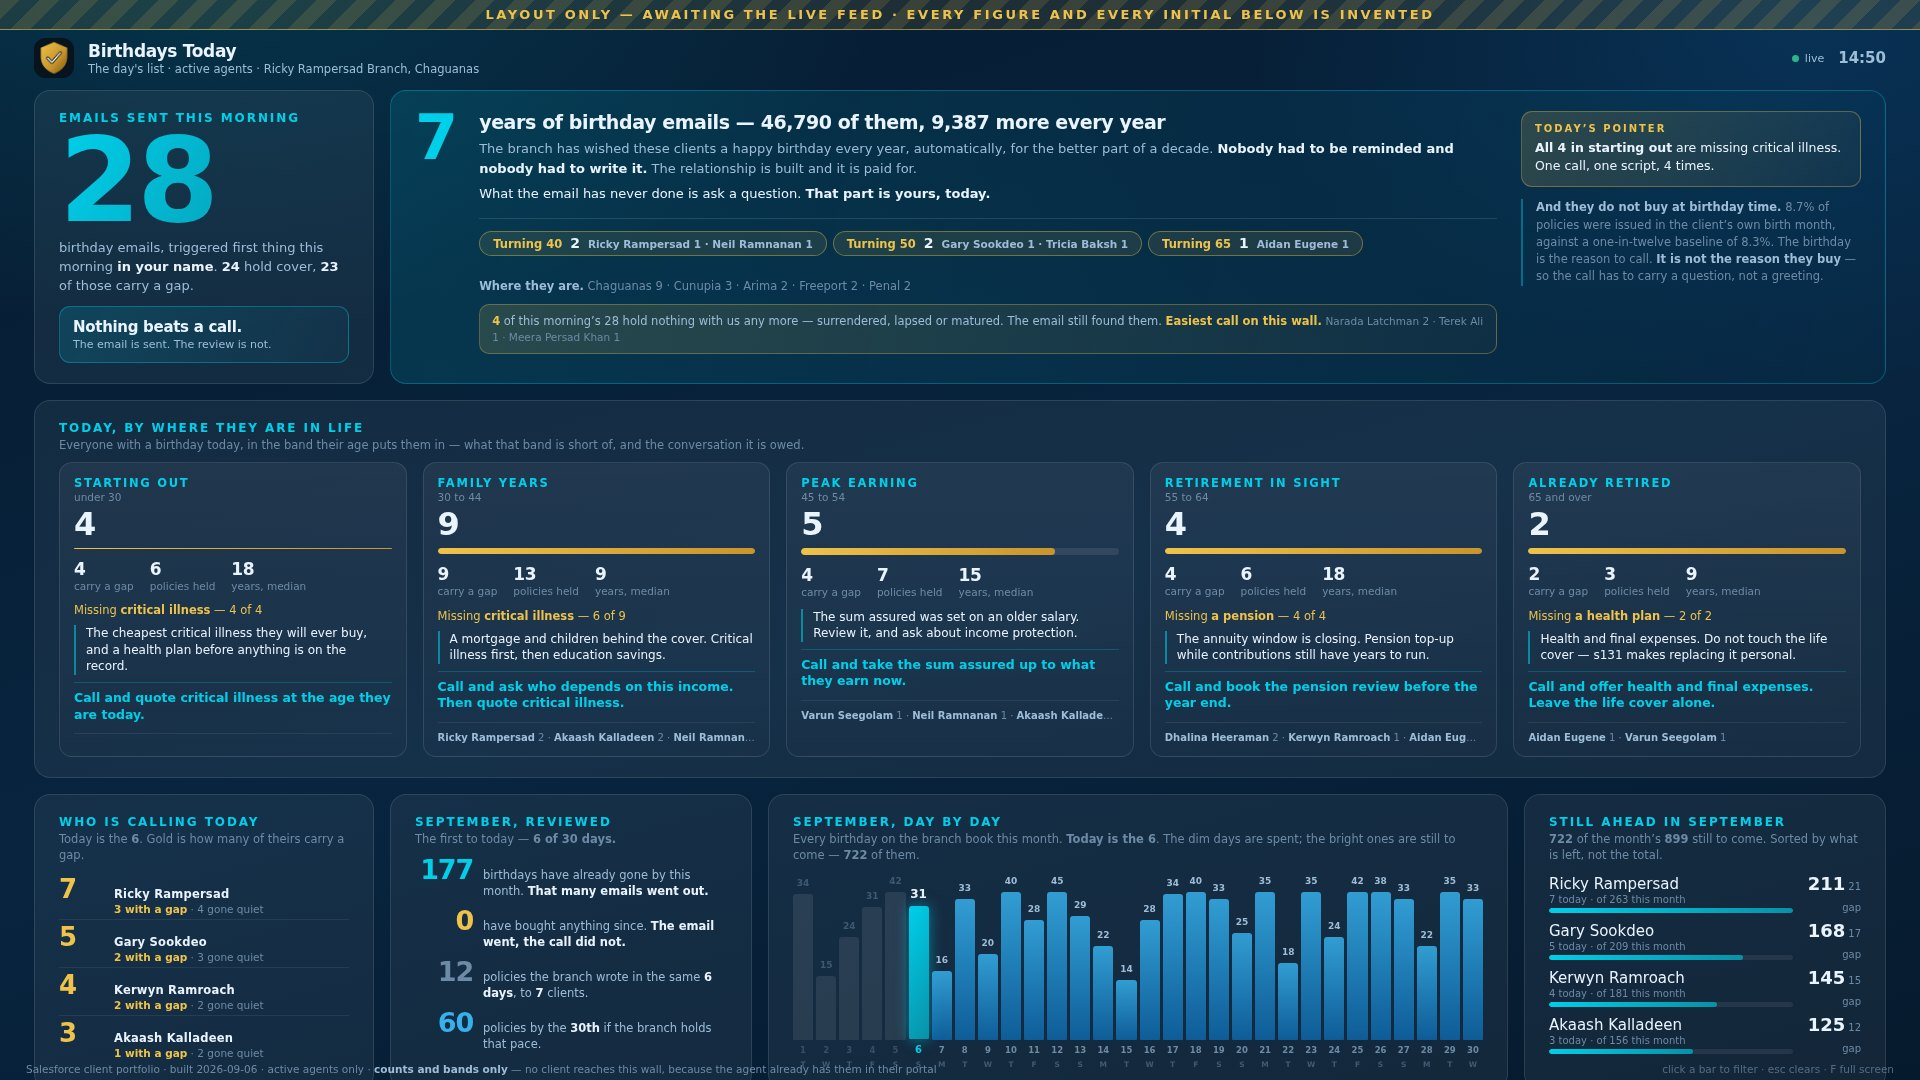
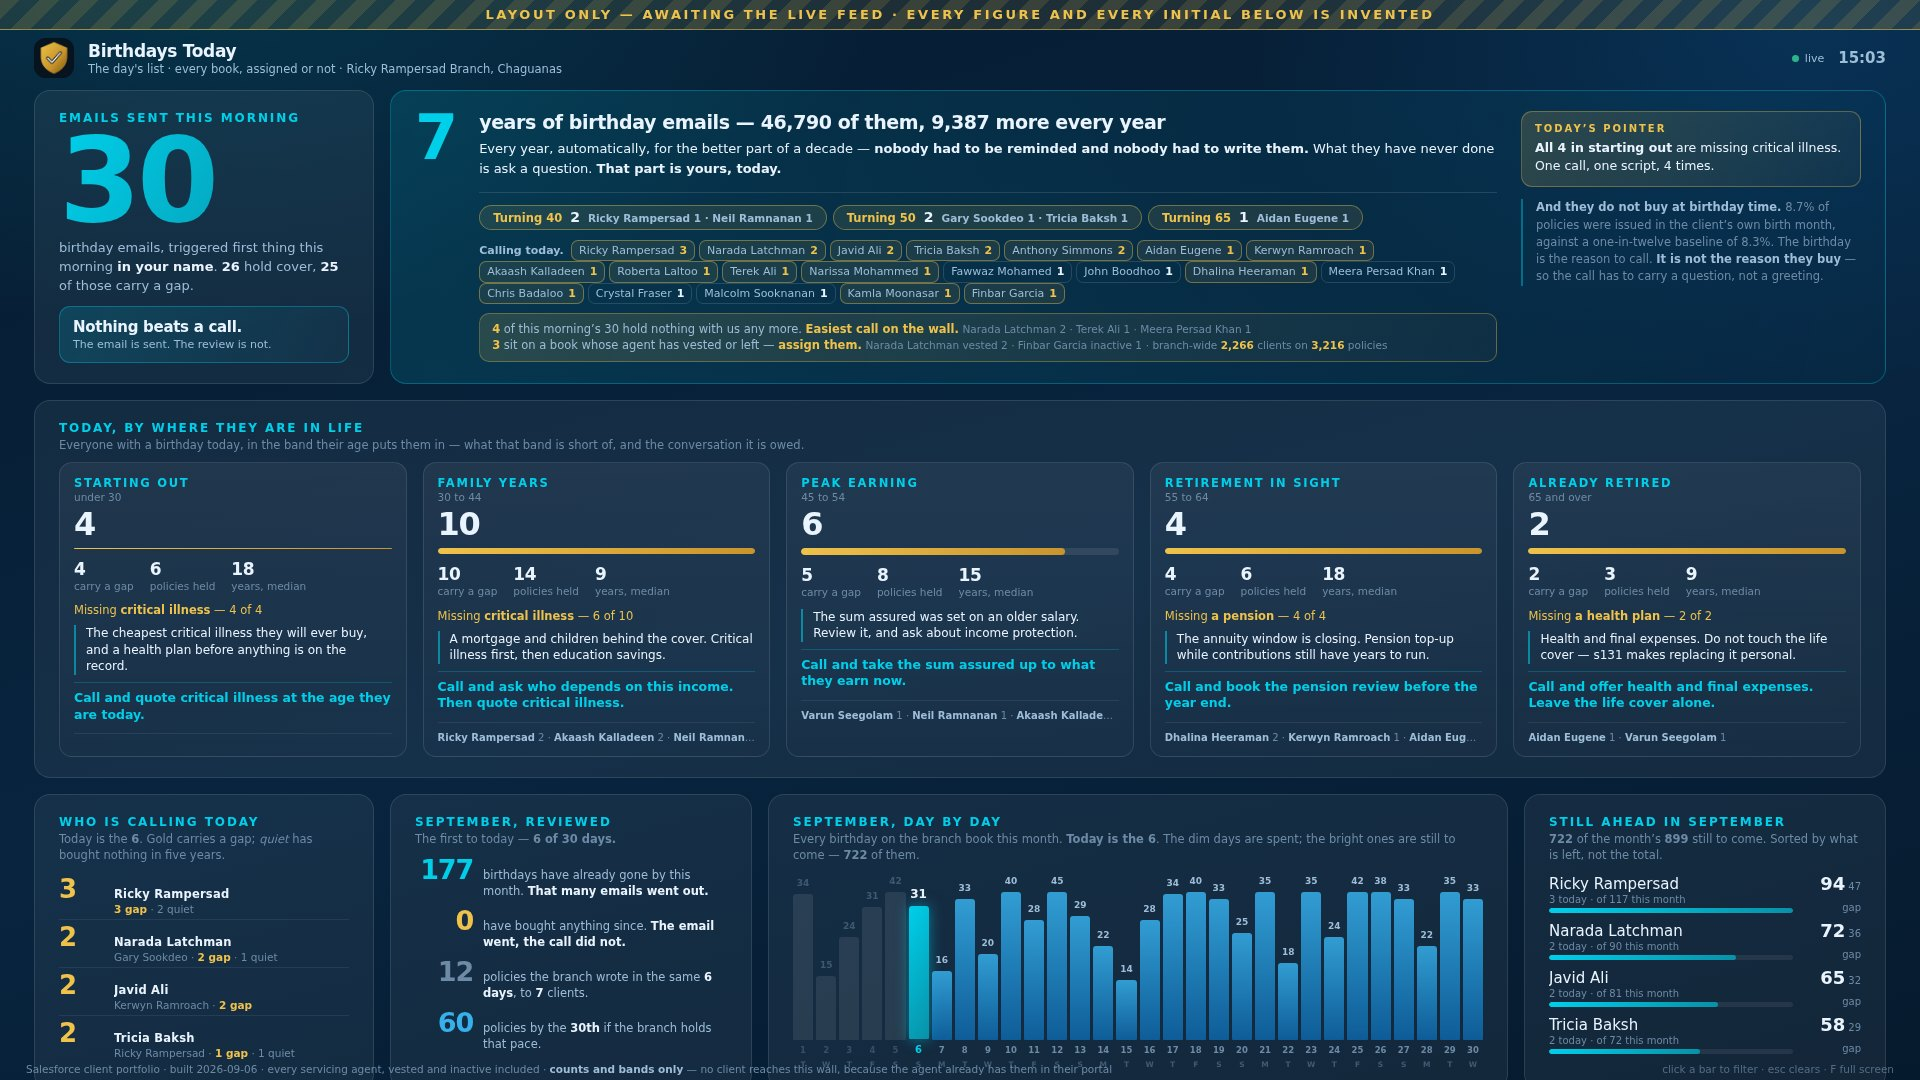
Put the agents on the wall, and stop hiding 2,266 clients
The branch could only see four managers on it. Two separate things, and the
second one was the wall hiding a quarter of the book.

THE PICTURE WAS MOCK DATA AND THE MOCK LISTED MANAGERS. The builder has always
keyed the agent panels on the servicing agent, not the unit — 22 agents have a
client with a birthday on 6 September and 17 of them would have printed. But the
demo shot was built from a fixture I wrote with the four unit heads in it, so the
picture said "managers only" while the code said otherwise. The fixture now
carries a realistic roll and the month leaderboard is keyed the same way the
builder keys it, so the picture and the wall agree.

FOUR NAMES IS STILL FOUR NAMES. A ranked top-four shows eighteen of today's
twenty-two agents nothing at all, and this wall exists to move agents. The years
card now carries the whole roll: every agent with a birthday today, named, with
their count, gold when at least one of theirs carries a gap. The ranked panel
stays underneath because it answers a different question — who to push, sorted by
gaps — and it prints the unit only when the unit is not the agent's own name.

The town line made way for it. Never asked for, least actionable thing on the
screen, still in the feed for the app.

AND THE FILTER WAS THROWING AWAY A QUARTER OF THE BOOK. The in-force extract
carries a servicing-agent status and the builder used it as a filter, so every
client behind a vested or inactive agent was dropped before anything counted
[…]

diff --git a/intelligence/wall/book.html b/intelligence/wall/book.html
@@ -279,8 +279,19 @@
   .years .mile u{text-decoration:none;font-family:var(--font-d);font-weight:800;font-size:14px;
     color:var(--ink);line-height:1}
   .years .mile b{font:600 10.5px var(--font-b);color:var(--dim)}
-  .years .where{font-size:11.5px;color:var(--faint);line-height:1.5}
-  .years .where b{color:var(--dim);font-weight:600}
+  /* EVERY AGENT WITH A BIRTHDAY TODAY, BY NAME. The branch's note was that it
+     could only see the four unit heads, and it was right about what mattered:
+     a wall meant to move agents has to have the agents on it. The ranked panel
+     below shows four; this shows all twenty-two, because the one an agent looks
+     for is their own. Gold means at least one of theirs carries a gap. */
+  .years .roll{margin-top:10px;font-size:11px;color:var(--faint);line-height:1.75}
+  .years .roll > b{color:var(--dim);font-weight:600;margin-right:4px}
+  .years .ag{display:inline-block;border:1px solid rgba(255,255,255,.13);
+    border-radius:7px;padding:0 7px;margin:0 4px 0 0;color:var(--dim)}
+  .years .ag u{text-decoration:none;font-weight:700;color:var(--ink);margin-left:5px}
+  .years .ag.g{border-color:rgba(239,194,75,.42);background:rgba(239,194,75,.09)}
+  .years .ag.g u{color:var(--gold)}
+  .years .roll:empty{display:none}
   .years .yside{flex:none;width:340px;display:flex;flex-direction:column;gap:12px}
   /* THE POINTER. One line, chosen every morning from the people actually on the
      screen — a wall that prints the same advice daily stops being read by the
@@ -465,10 +476,10 @@
      the hero, and that is a measurement rather than a preference: the hero
      column is 290px, where this paragraph runs to six lines and pushed the card
      164px past a row that has none to give. Here it is one line. */
-  .years .ylapse{margin-top:9px;padding:8px 12px;border-radius:10px;
+  .years .ylapse{margin-top:9px;padding:7px 12px;border-radius:10px;
     background:linear-gradient(120deg,rgba(239,194,75,.15),rgba(239,194,75,.03));
     border:1px solid rgba(239,194,75,.32);font-size:11.5px;color:var(--dim);
-    line-height:1.4}
+    line-height:1.45}
   .years .ylapse b{color:var(--gold);font-weight:700}
   .years .ylapse em{font-style:normal;color:var(--faint);font-size:10.5px}
   .years .ylapse:empty{display:none}
@@ -566,7 +577,7 @@
   <div class="mark"><img src="../../logo-mark.png" alt=""></div>
   <div>
     <h1>Birthdays Today</h1>
-    <div class="sub" id="hSub">The day's list &middot; active agents &middot; Ricky Rampersad Branch, Chaguanas</div>
+    <div class="sub" id="hSub">The day's list &middot; every book, assigned or not &middot; Ricky Rampersad Branch, Chaguanas</div>
   </div>
   <div class="right">
     <div id="chip" onclick="clearFilter()"><b id="chipTxt"></b><span>&#10005;</span></div>
@@ -587,15 +598,16 @@
     <div class="yn">7</div>
     <div class="ytxt">
       <div class="hd">years of birthday emails have already gone out</div>
-      <p>The branch has wished these clients a happy birthday every year, automatically,
-        for the better part of a decade. <b>Nobody had to be reminded and nobody had to
-        write it.</b> The relationship is built and it is paid for.</p>
-      <p class="last">What the email has never done is ask a question.
-        <b>That part is yours, today.</b></p>
+      <!-- ONE LINE OF NARRATIVE, NOT THREE. The headline above already states the
+           seven years and the count; the hero states "nothing beats a call". What
+           this card owes the room now is the agents' names, and they cost lines. -->
+      <p class="last">Every year, automatically, for the better part of a decade &mdash;
+        <b>nobody had to be reminded and nobody had to write them.</b>
+        What they have never done is ask a question. <b>That part is yours, today.</b></p>
       <div class="ystrip">
         <div class="miles" id="bMiles"></div>
-        <div class="where" id="heroWhere"></div>
       </div>
+      <div class="roll" id="heroWhere"></div>
       <div class="ylapse" id="heroLapse"></div>
     </div>
     <div class="yside">
@@ -772,14 +784,26 @@ function paint(){
   $("#heroCap").innerHTML='birthday emails, triggered first thing this morning '
     + '<b>in your name</b>. <b>'+n(T.n)+'</b> hold cover, <b>'+n(T.withGap)
     + '</b> of those carry a gap.';
-  var LA=(T.lapsedAgents||[]);
-  $("#heroLapse").innerHTML = T.lapsed
-    ? '<b>'+n(T.lapsed)+'</b> of this morning&rsquo;s '+n(T.emails!=null?T.emails:T.n)
-      + ' hold nothing with us any more &mdash; surrendered, lapsed or matured. '
-      + 'The email still found them. <b>Easiest call on this wall.</b>'
-      + (LA.length ? ' <em>'+LA.slice(0,4).map(function(a){
-            return esc(a.k)+' '+n(a.n); }).join(' &middot; ')+'</em>' : '')
-    : '';
+  /* THE TWO EXCEPTIONS, IN ONE BOX. Both are people the wall would otherwise
+     not mention and both are calls somebody should make today; two separate
+     panels cost 25px of border and padding the years card does not have. */
+  var LA=(T.lapsedAgents||[]), UA=(T.unassignedAgents||[]), UN=(D.unassigned||{}), ex=[];
+  /* ONE LINE EACH. At 1018px the card gives these two about 150 characters
+     apiece, and a third line on either of them pushes the whole card past the
+     row. Everything cut from here is still in the feed. */
+  if(T.lapsed) ex.push('<div><b>'+n(T.lapsed)+'</b> of this morning&rsquo;s '
+    + n(T.emails!=null?T.emails:T.n)+' hold nothing with us any more. '
+    + '<b>Easiest call on the wall.</b>'
+    + (LA.length ? ' <em>'+LA.slice(0,3).map(function(a){
+          return esc(a.k)+' '+n(a.n); }).join(' &middot; ')+'</em>' : '')+'</div>');
+  if(T.unassigned) ex.push('<div><b>'+n(T.unassigned)+'</b> sit on a book whose agent has '
+    + 'vested or left &mdash; <b>assign them.</b>'
+    + (UA.length ? ' <em>'+UA.slice(0,3).map(function(a){
+          return esc(a.k)+' '+esc(a.status||'inactive').toLowerCase()+' '+n(a.n);
+        }).join(' &middot; ')+'</em>' : '')
+    + (UN.clients ? ' <em>&middot; branch-wide <b>'+n(UN.clients)+'</b> clients on <b>'
+          + n(UN.policies)+'</b> policies</em>' : '')+'</div>');
+  $("#heroLapse").innerHTML = ex.join('');
   var MI=T.milestones||[];
   $("#bMiles").innerHTML = MI.length
     ? MI.map(function(m){
@@ -793,8 +817,8 @@ function paint(){
      sixth, these are the people whose clients are having it, and this is how
      many of theirs are worth more than a greeting. */
   var TB=(T.byAgent||[]);
-  $("#wCap").innerHTML='Today is the <b>'+n((D.month||{}).day)+'</b>. Gold is how many of '
-    + 'theirs carry a gap.';
+  $("#wCap").innerHTML='Today is the <b>'+n((D.month||{}).day)+'</b>. Gold carries a gap; '
+    + '<i>quiet</i> has bought nothing in five years.';
   $("#mList").innerHTML = TB.length ? TB.slice(0,4).map(function(a){
       return '<div class="mrow"><div class="age">'+n(a.n)+'</div><div class="mt">'
         + '<div class="t">'+esc(a.k)+'</div>'
@@ -802,14 +826,24 @@ function paint(){
            branch's agents run their own unit, so the row read "Ricky Rampersad
            / Ricky Rampersad · 3 with a gap · 4 gone quiet" and the line that
            mattered was the half that fell off the end. */
+        /* Short labels. The column is 203px, which is about 34 characters, and
+           "Ricky Rampersad · 1 with a gap · 1 gone quiet" is 44 — so the half
+           that mattered fell off the end. The caption above names what gold
+           means, so the number does not have to. */
         + '<div class="a">'+(a.unit&&a.unit!==a.k?esc(a.unit)+' &middot; ':'')
-        + (a.gap?'<em>'+n(a.gap)+' with a gap</em>':'')
-        + (a.quiet?(a.gap?' &middot; ':'')+n(a.quiet)+' gone quiet':'')+'</div>'
+        + (a.gap?'<em>'+n(a.gap)+' gap</em>':'')
+        + (a.quiet?(a.gap?' &middot; ':'')+n(a.quiet)+' quiet':'')+'</div>'
         + '</div></div>'; }).join("")
     : '<p class="none">Nobody on the branch book has a birthday today.</p>';
-  var TW=(T.towns||[]).slice(0,5);
-  $("#heroWhere").innerHTML = TW.length
-    ? '<b>Where they are.</b> '+TW.map(function(t){ return esc(t.k)+' '+n(t.n); }).join(' &middot; ')
+  /* THE ROLL. Every agent with a client having a birthday today, named, because
+     the branch's whole point is that the agent walking past should find their
+     own name on it. The town line that used to sit here was never asked for and
+     was the least actionable thing on the wall; the towns are still in the feed
+     for the app. Ranked by count, so the biggest books read first. */
+  $("#heroWhere").innerHTML = TB.length
+    ? '<b>Calling today.</b> '+TB.map(function(a){
+        return '<span class="ag'+(a.gap?' g':'')+'">'+esc(a.k)+'<u>'+n(a.n)+'</u></span>';
+      }).join('')
     : '';
 
   /* The seven-year claim, with the measurement that qualifies it beside it. */
@@ -957,9 +991,12 @@ setInterval(tick,10000); tick();
 function boot(){
   paint();
   if(!BOOK.configured) return;
+  /* NOT "active agents only" any more. Vested and inactive servicing agents keep
+     their clients on this wall, because those clients still hold cover and still
+     got the email — hiding them hid 2,266 of them. */
   $("#src").innerHTML="Salesforce client portfolio · built "+BOOK.generatedAt
-    + " · active agents only · <b>counts and bands only</b> — no client reaches this wall, "
-    + "because the agent already has them in their portal";
+    + " · every servicing agent, vested and inactive included · <b>counts and bands only</b>"
+    + " — no client reaches this wall, because the agent already has them in their portal";
 }
 function load(){
   if(!BOOK_URL){ boot(); return; }

diff --git a/intelligencewalldemo/index.html b/intelligencewalldemo/index.html
@@ -364,13 +364,17 @@
         <p>The one wall here that is not about something going wrong, and the only one
           that is a day's work rather than a year's position. Whose birthday it is
           <b>today</b>, grouped into five life stages, with what each stage is short of
-          and the conversation it is owed. The birthday letter has gone out automatically
-          for seven years &mdash; <b>46,790 of them</b> &mdash; and what it has never done
-          is ask a question. It reviews the month behind it too: how many birthdays have
-          gone by, whether any of those clients bought, and where the month lands at the
-          branch's own pace. No client reaches this wall &mdash; counts and bands, like the
-          other four. <b>The picture is the layout, not a reading</b> &mdash; the figures in
-          it are placeholders until the Salesforce feed is connected.</p>
+          and the conversation it is owed &mdash; and <b>every agent named on it</b>, so
+          the person who should pick up the phone can find themselves from across the
+          room. The birthday letter has gone out automatically for seven years
+          &mdash; <b>46,790 of them</b> &mdash; and what it has never done is ask a
+          question. It reviews the month behind it too: how many birthdays have gone by,
+          whether any of those clients bought, and where the month lands at the branch's
+          own pace. It also carries the <b>2,266 clients whose servicing agent has vested
+          or left</b>, who were invisible until now and who nobody was calling. No client
+          reaches this wall &mdash; counts and bands, like the other four. <b>The picture
+          is the layout, not a reading</b> &mdash; the figures in it are placeholders
+          until the Salesforce feed is connected.</p>
         <a class="go" href="/intelligence/wall/book.html">Open the wall →</a>
       </div>
     </div>

diff --git a/INTELLIGENCE-SETUP.md b/INTELLIGENCE-SETUP.md
@@ -908,6 +908,72 @@ an invented insight on a quiet day costs more than a blank space.
 Every branch of it is a fact about the cohort. None of them is a claim about a
 product, and none is a claim about a person.
 
+#### Every agent is on the wall, by name
+
+The branch's note on the first cut was that it could only see the four unit
+heads, and it was right about what mattered: **a wall meant to move agents has
+to have the agents on it.** Two things were happening.
+
+The **demo screenshot** was mock data, and the mock listed the four managers —
+so the picture said "managers only" while the code said otherwise. That was mine
+and it is fixed; the mock now carries a realistic roll and the month
+leaderboard is keyed on the agent, exactly as the builder keys it.
+
+But **four names is four names**, however they are chosen. There are 22 agents
+with a client having a birthday on 6 September and a ranked top-four shows
+eighteen of them nothing. So the years card now carries **the roll**: every
+agent with a birthday today, named, with their count, gold if at least one of
+theirs carries a gap. An agent walking past looks for one thing on this wall and
+it is their own name.
+
+The ranked panel underneath stays, because it answers a different question —
+*who should be pushed today*, sorted by gaps rather than by count — and it now
+shows the unit only when the unit is not the agent's own name.
+
+**The town line was removed to make room.** It was never asked for and was the
+least actionable thing on the screen. `today.towns` is still in the feed for the
+app.
+
+#### Vested and inactive books are on the wall too
+
+Asked for by the branch — *"include inactive agents that we need to assign"* —
+and it turned out to be the largest thing this wall was hiding.
+
+The in-force extract carries a servicing-agent status. The builder used it as a
+filter and dropped every row whose agent was not Active, so those clients
+vanished from the wall entirely. Measured on the branch book:
+
+| | |
+|---|---|
+| Servicing agent codes on the in-force extract | 61 |
+| Active | 33 |
+| Inactive | 19 |
+| Vested | 9 |
+| **Clients behind those 28 agents** | **2,266** |
+| **Live policies they hold** | **3,216** |
+| **With a September birthday** | **184** |
+
+So 2,266 clients holding 3,216 live policies were invisible, and 184 of them got
+the branch's birthday email this month with nobody assigned to follow it up. A
+vested or inactive servicing agent is not a reason to hide the client — it is
+the reason to call them.
+
+The row is kept and flagged now. On the wall it reads as a gold line: *N sit on
+a book whose agent has vested or left — **assign them***, with the agents named
+and their status, and the branch-wide figure beside it. In the feed it is
+`today.unassigned`, `today.unassignedAgents` and `unassigned{clients, policies,
+month}`.
+
+**A client can sit on two books at once.** If any of their policies is serviced
+by somebody still working, that is the name the wall prints and the client is
+not counted as unassigned — they simply also have history with somebody who
+left. Only a client with no active servicer anywhere is one the branch has to
+reassign, and the test covers the case where the inactive row is read first.
+
+The header and the footer used to say **active agents only**. They do not any
+more, because that is no longer true and a wall whose footer disagrees with its
+figures is worse than one with no footer at all.
+
 #### Who is calling today
 
 The branch's own question in one panel: today is the sixth, these are the agents
@@ -1142,7 +1208,8 @@ month than twenty with twenty.
 
 **Where today's clients are** — town, from the mailing address, populated on
 **72%** of the branch's rows. Chaguanas leads the book at 1,303 clients, then
-Couva, Sangre Grande, Cunupia and Arima.
+Couva, Sangre Grande, Cunupia and Arima. **In the feed only** — it was on the
+wall and the agent roll took its place.
 
 **What today's already hold** — the cover carried by the people on this list,
 not by the branch.
